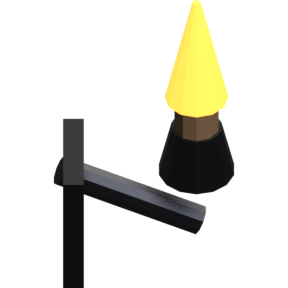
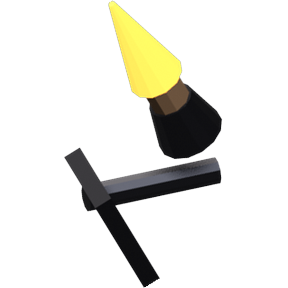
improve(web-sprite-contrast): art-pass web sprite for dark-grid visibility and centre torch flame

Changed region(s): [[0.1875, 0.0, 0.8125, 1.0]]

diff --git a/docs/test-setup-playbook.md b/docs/test-setup-playbook.md
@@ -164,6 +164,7 @@ Durable mechanics, rigs, seams and pitfalls for validation/exploration runs in t
 - Improve-run handoff staleness: an orchestrator claim that the dev pair is "already running" can go STALE — every subagent must probe :5173 + :80 first and restart `npm run dev:locked` (background) if refused. Wizard overlay × close is now named: `getByRole('button',{name:'Close character wizard'})` (aria-label since 640c42865 — `name:'×'` queries no longer match it).
 - Furniture context-menu **Delete is two-stage**: leaf click opens the `Delete from Map` modal — follow-up click `button.delete-confirm-btn` ("Yes, Delete") actually removes. `globalThis` does NOT persist across `browser_run_code_unsafe` calls (per-call sandbox) — use `browser_console_messages` for session error totals. Skeleton palette row restored (props now 20 indoor; census pin in `ItemsPanel.test.jsx` holds the ordered list); sprite thumbs ship at `/images/items/<type>.png`.
 - Hex3D/maps-manager probes: rows are `li.maps-manager-item`, `getByRole('button',{name:'Open',exact:true})` misses (icon-child accessible-name quirk) — use `row.locator('button',{hasText:/^Open$/})`; ancestor-walk clicks on "Open" over-reach the list. Hex3D chrome: Labels/Weather are `input[type=checkbox]` (no aria-label), only 2D/Top-down are buttons. `page.screenshot` relative paths land in gitignored `tests/e2e/screenshots/` — good evidence sink. jsdom seam rule: keep measuring DOM-side, export the pure {measuredWidth→geometry} mapper (`labelSpriteLayout`) so sizing law is unit-pinned without canvas/WebGL.
+- Sprite art-pass lane (2026-11-05 web-sprite-contrast): image-generation tool fails `Insufficient credits` (no purchased credits — retry is futile); sanctioned route is programmatic (dilate strands, solidify alpha, lift luminance, halo fill) via a throwaway venv (system python3 is PEP-668-locked). Item PNGs are 288² RGBA at `/images/items/<type>.png`; keep dims+alpha (`sips -g pixelWidth -g pixelHeight -g hasAlpha`), prove visibility by effective-luminance (mean over black, whole canvas) before/after, and remember browsers serve stale /images — `fetch(cache:'reload')`. `browser_run_code_unsafe` code must be an `async (page) => {}` expression (bare IIFE → `__fn__ is not a function`); `browser_take_screenshot` requires explicit `scale:"css"`; read tool denies images from the external temp dir — land screenshots in gitignored `tests/e2e/screenshots/`. Maps-manager rows show display names ("Item Showcase"). Accepted residual: 3D GLB textures keep old baked art until the next Blender sprite batch.
 - Eye-rays family fingerprint: rays[] ABSENT + save_type "Varies (...)" + multi-string damage = generic VAR shell "DC Unknown" zero-damage inert (MA-0577 Death Tyrant; §50 MA-0374/0383 class). §88 picker requires authored rays[]. Beholder rays:10 / Beholder Zombie rays:4 authored = live twins.
 - MA-0582 (FAIL(b)/DATA, death tyrant lair): lair_actions MIXED array fingerprint — raw-string[0] + nameless duplicate description-only dict[1] (byte-dup of [0], raw carries "ofthe" typo) + nameless save dict[2] (DC17 Dex grapple walls, MA-0584). ALL inert: isLairRowClickable needs row.name (monsterLairActions.js:26); nameless dicts render `<strong>{la.name}.</strong>` as lone bold " ." prefix; card overlay query .mc-dice-link-lair = 0, zero affordance, log join-noise-only. [2] is one `name` field from a live save chip. No combined lightly-obscured+difficult-terrain te registered (nearest twins lair_fog_cloud/lair_slimy_ground each model half the clause). URL-bar nav /initiative after re-select renders CHAR SHEET at /initiative and deselects campaign — nav-button click is the only reliable board route (extends §95). browser_type [internal] error can still land the keystrokes — verify input.value, don't retype. EB selection survives filter replacement across hidden strip (Meta+A+Backspace+type), verify via $$eval checked td texts pre-Join (confirms §124/§152).
 - §117 SUPERSEDED for rider conditions on EB-NPC victims: saveConditions ARE consumed live via saveProcessing.processNpcSave→applyDamagelessSaveConditions (saveProcessing.js:451/799); attack chip rides NO save (MA-0551 nulls saveDc/saveType/dcSuccess on attack-roll options, handleNpcSaveDamage.js:223 statusEffects-only never reached) — compound attack+save rows resolve as TWO chips: attack=always-full damage, save chip=condition/semi-damage adjudication. MA-0586 live proof: 7/7 hits full finalDamage, DC12 CON chip applied poisoned+badge on fail. Repeat-save-at-turn-end still zero-consumer advisory (§70).

diff --git a/docs/app-exploration.md b/docs/app-exploration.md
@@ -74,7 +74,6 @@
 <!-- Open items only. e2e-explore appends dated bullets here; e2e-improve consumes and REMOVES them (DONE/BLOCKED/skipped are recorded in the run summary, never left as markers). FAILED bullets stay open. -->
 
 - **2026-11-05 CV — `web` sprite contrast:** nearly invisible on the dark indoor grid at native 36 px (item-showcase row 4) — art pass for stroke contrast/brightness; `torch` flame sits visibly off-centre in its top-down render (cosmetic).
-
 ## Blocked / Deepen Targets (fold-gate ledger)
 
 - CLOSED at CV 2026-11-05: CU PT2 (burst PATCH coalescing question — answered: none, ordered LWW, honest) + PT3 (two-tab allies race — LWW + live convergence); sprite-commit demotions (2D item/POI, both 3D scenes, counts, drop, context menus, player fog face); improve-pair 2a4b9ec0b + d500d221f live-verified.
